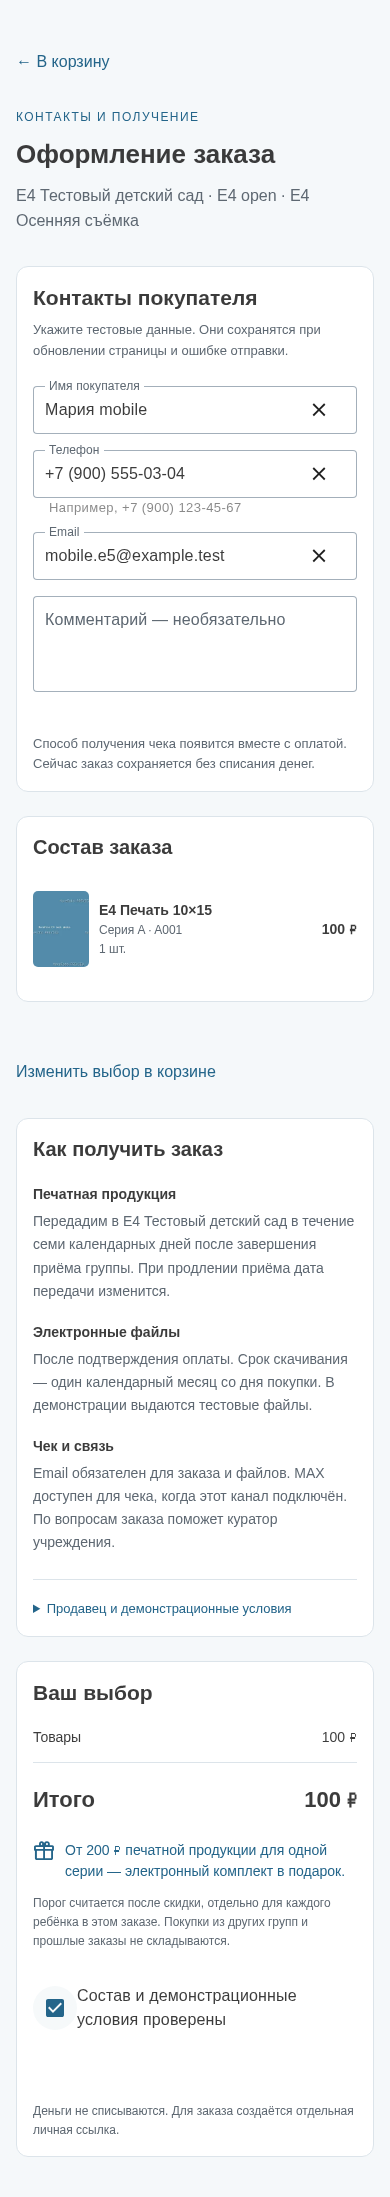
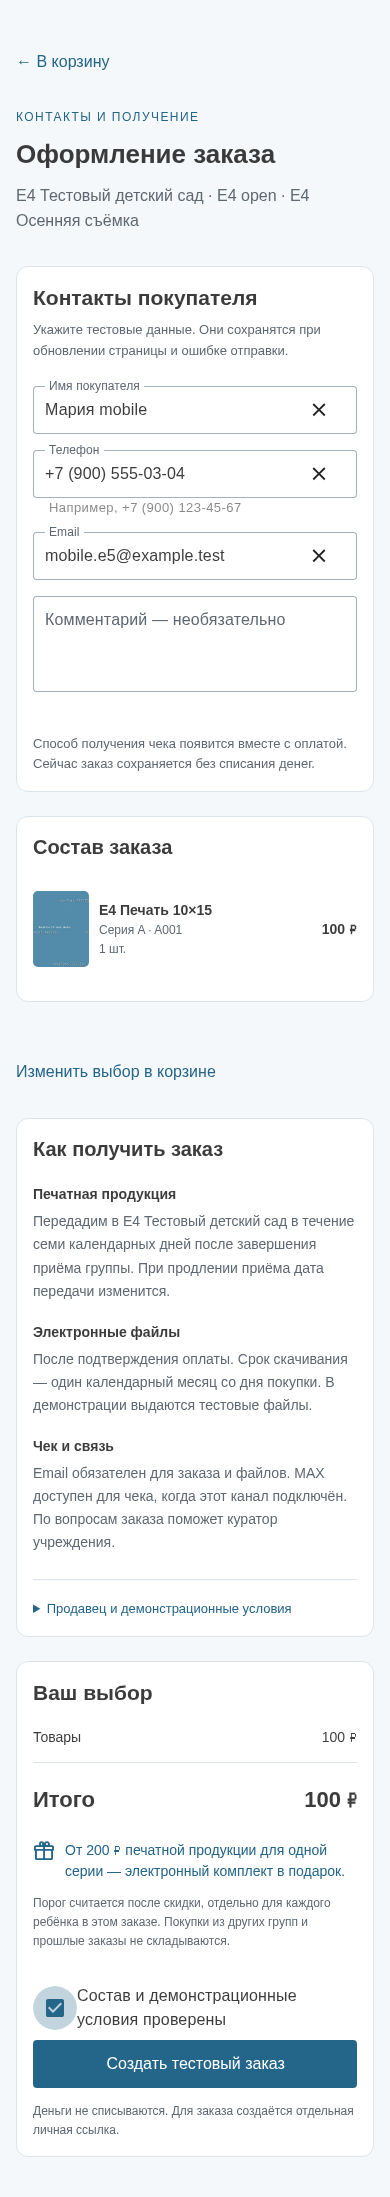
docs(e5): record passing final gate and visual check

Changed region(s): [[0.0615, 0.8976, 0.9231, 0.9595]]

diff --git a/docs/plans/E5_order-checkout/progress.md b/docs/plans/E5_order-checkout/progress.md
@@ -2,13 +2,12 @@
 
 ## Точка продолжения
 
-- 2026-09-22. Ветка `codex/e5-order-checkout`, PR [#37](https://github.com/rebit-pro/rabit-api/pull/37); base `8cba22c`, опубликованный HEAD `46c442e`, локально поверх него — документационный коммит ревью `001814f` (без push).
-- Завершено: ревью PR #37 — B1/B2 (P1), B3 (P2); #38/#39 — отдельные issues.
-- Сейчас: B1–B3 исправлены, быстрые проверки PASS; публикация исправлений и ответ на ревью, затем полный `make test-e2e`, при PASS — merge и развёртывание на app.morefoto36.ru (план — раздел «Исправления ревью…» в `plan.md`).
-- Следующий шаг: полный `make test-e2e` на HEAD с исправлениями.
-- Блокеры: нет. Открыто: процедура развёртывания app.morefoto36.ru собирается по записям прошлых релизов.
-- Рабочее дерево: чистое до начала исправлений.
-- Проверки после исправлений: PHPUnit/PHPStan/php-cs-fixer, frontend `npm run check`/`test:commerce`, затем `make test-e2e E2E_PHP_CLI_IMAGE=rabit-api-php-cli:d1-local E2E_PHP_FPM_IMAGE=rabit-api-php-fpm:d1-local E2E_KERNEL_ROOT=/home/user/rebit-p2p/api/public/bitrix E2E_VENDOR_ROOT=/home/user/rabit-api/api/vendor`.
+- 2026-09-22. Ветка `codex/e5-order-checkout`, PR [#37](https://github.com/rebit-pro/rabit-api/pull/37); проверенный HEAD `5435ebc` (исправления B1–B3), отчёты по gate — следующий docs-коммит.
+- Завершено: B1–B3, ответ на ревью, финальный `make test-e2e` PASS (70/70, оба верификатора MySQL), визуальная проверка 8 экранов, отчёты `docs/waves/e5`.
+- Решение пользователя: merge в `main` и развёртывание отложены до второго круга ревью.
+- Следующий шаг: дождаться второго ревью PR #37; merge и развёртывание на app.morefoto36.ru — только по новому указанию (процедура — ниже).
+- Блокеры: нет. Вне E5: коллизия имени D3; #38/#39 — отдельные issues.
+- Процедура развёртывания: каталог `/srv/morefoto/releases/e5-<UTC>-<sha>`; `services-before.json` пяти сервисов; `backup.sh` + `restore-check.sh` по образцу E4 (БД `morefoto_stage_c4_20260913`); `git archive <merge>:api`, `vendor` и `backend.conf` из релиза E4, точки монтирования `public/upload`, `public/bitrix`, `public/local/.settings.php`; `migrate.sh up Version20260922120001` (без подмены модуля commerce); `--mount-add` нового `/app` для fpm, backend (+`backend.conf`), consumer, dispatcher; frontend `docker build … VITE_API_MOCKS_ENABLED=false` из чистого worktree merge-коммита, `docker save | ssh … docker load`, `nginx -t`, `docker service update --image`; флаг `MOREFOTO_CHECKOUT_ENABLED` не задаётся; откат — `--mount-add` путей релиза E4 и предыдущий образ frontend.
 
 ## Хронология
 
@@ -72,32 +71,31 @@
 
 ## Результаты тест-кейсов
 
-`PASS*` — подтверждено unit и HTTP в прогоне `rabit-e2e-c14d949a108e`; повтор в финальном gate после ревью.
 
 | ID | Статус | Дата | Команда и доказательство |
 | --- | --- | --- | --- |
 | E5-BASE | PASS | 2026-09-22 | `gh pr view 30`: MERGED `7e606e5`; `git merge-base --is-ancestor` — предок HEAD `8cba22c` |
 | E5-GRAPH | PASS | 2026-09-22 | `python3 tools/verify-wave-graph.py` для обоих графов: 40 волн, 99 API, `readyFromMain=["E5"]` |
 | E5-CONTRACT | PASS | 2026-09-22 | `build.py`, `validate.py` (passed, 99 API), `validate-postman.cjs` (99/198) |
-| E5-CREATE | PASS* | 2026-09-22 | PHPUnit; HTTP в прогоне `rabit-e2e-c14d949a108e` (201, `Location`, номер, ключ, статусы, снимок). *Финальный gate — после ревью |
-| E5-REPLAY | PASS* | 2026-09-22 | HTTP повтор тем же ключом — тот же id/номер/ключ; UI потерянного ответа — повтор тем же ключом; повтор после закрытия — в `verify-orders.php` (PENDING) |
-| E5-CONCURRENCY | PASS* | 2026-09-22 | HTTP: 4 одновременных запроса с одним ключом → один заказ; 3 ключа на один quote → 201 + 2×409 `QUOTE_ALREADY_USED` |
-| E5-CONFLICT | PASS* | 2026-09-22 | PHPUnit и HTTP: другое тело с тем же ключом → 409 `IDEMPOTENCY_CONFLICT` |
-| E5-QUOTE | PASS* | 2026-09-22 | PHPUnit; HTTP `PRICE_CHANGED` с новым расчётом и UI подтверждения нового итога; `QUOTE_EXPIRED` — в `verify-orders.php` (PENDING) |
-| E5-CLOSED | PASS* | 2026-09-22 | HTTP: closed → 409 `GALLERY_CLOSED`, preparing → 409 `GALLERY_NOT_READY`, revoked → 404 |
+| E5-CREATE | PASS | 2026-09-22 | PHPUnit; `make test-e2e` `rabit-e2e-c2a30ffb9621`: 201, `Location`, номер, ключ, статусы, снимок |
+| E5-REPLAY | PASS | 2026-09-22 | HTTP повтор тем же ключом; UI потерянного ответа и 502; повтор после закрытия — `verify-orders.php` |
+| E5-CONCURRENCY | PASS | 2026-09-22 | HTTP: 4 одновременных запроса с одним ключом → один заказ; 3 ключа на один quote → 201 + 2×409 |
+| E5-CONFLICT | PASS | 2026-09-22 | PHPUnit и HTTP: другое тело с тем же ключом → 409 `IDEMPOTENCY_CONFLICT` |
+| E5-QUOTE | PASS | 2026-09-22 | PHPUnit (состав → `QUOTE_STALE`, деньги → `PRICE_CHANGED`); HTTP `PRICE_CHANGED` и UI подтверждения; `QUOTE_EXPIRED` — `verify-orders.php`; `verify-storefront.php` PASS |
+| E5-CLOSED | PASS | 2026-09-22 | HTTP: closed → 409 `GALLERY_CLOSED`, preparing → 409, revoked → 404; закрытие на MySQL — `verify-orders.php` |
 | E5-GATE | PASS | 2026-09-22 | PHPUnit (`PURCHASE_DISABLED` до любых обращений); HTTP стенда: `purchaseEnabled=true`, `receiptChannels=[]`, `purchaseTerms=null` |
-| E5-VALIDATION | PASS* | 2026-09-22 | PHPUnit `BuyerPolicy`; HTTP 422 по полям, `INVALID_IDEMPOTENCY_KEY`, `UNKNOWN_FIELD` |
-| E5-SNAPSHOT | PASS* | 2026-09-22 | HTTP: после смены цены COM-11 показывает прежние цену и итог |
-| E5-KEY | PASS* | 2026-09-22 | HTTP: проекция, `no-store`, единый 404 для пустого/чужого ключа, номера MF и токена галереи; отзыв/истечение/перевыпуск — `verify-orders.php` (PENDING) |
-| E5-STAFF-LIST | PASS* | 2026-09-22 | HTTP: организатор, свой и чужой куратор, head/teacher 403, фильтры и 422; UI поиска — после исправления локатора (PENDING) |
-| E5-STAFF-CARD | PASS* | 2026-09-22 | HTTP: `period`, `correctionPhotos` с A001, 404 для чужого куратора, 403 head/teacher |
-| E5-ACCESS-CHANGE | PENDING | — | PHPUnit адаптера PASS; проверка на MySQL в `verify-orders.php` — финальный gate |
-| E5-PRIVACY | PENDING | — | HTTP: ответы без ключей/токенов, `no-store` — PASS; сканирование БД — `verify-orders.php` (финальный gate) |
-| E5-MIGRATION | PASS* | 2026-09-22 | Установка на пустую БД в обоих прогонах, DDL дважды на MySQL 8.0; повтор `up()`/отказ `down()` — `verify-orders.php` (PENDING) |
-| E5-PERF | PENDING | — | `verify-orders.php`: 1000+ заказов, одинаковое число SQL для 10 и 100 строк — финальный gate |
+| E5-VALIDATION | PASS | 2026-09-22 | PHPUnit `BuyerPolicy`; HTTP 422 по полям, `INVALID_IDEMPOTENCY_KEY`, `UNKNOWN_FIELD` |
+| E5-SNAPSHOT | PASS | 2026-09-22 | HTTP: после смены цены COM-11 показывает прежние цену и итог |
+| E5-KEY | PASS | 2026-09-22 | HTTP: проекция, `no-store`, единый 404; `verify-orders.php`: отзыв, истечение, перевыпуск, независимость от ссылки галереи |
+| E5-STAFF-LIST | PASS | 2026-09-22 | HTTP: организатор, свой и чужой куратор, head/teacher 403, фильтры и 422; UI поиска desktop/mobile |
+| E5-STAFF-CARD | PASS | 2026-09-22 | HTTP и UI: `period`, `correctionPhotos` с A001, 404 чужому куратору, 403 head/teacher |
+| E5-ACCESS-CHANGE | PASS | 2026-09-22 | PHPUnit адаптера; `verify-orders.php`: смена `accessRevision` во время чтения → 409 `ACCESS_CHANGED` |
+| E5-PRIVACY | PASS | 2026-09-22 | HTTP без ключей/токенов, `no-store`; `verify-orders.php`: в БД нет сырых ключей, Idempotency-Key и токена галереи |
+| E5-MIGRATION | PASS | 2026-09-22 | Установка на пустую БД в gate; DDL дважды на MySQL 8.0; `verify-orders.php`: повтор `up()`, отказ `down()` |
+| E5-PERF | PASS | 2026-09-22 | `verify-orders.php`: 1011 заказов, 7 SQL для 10 и 100 строк, 7,5 мс на страницу из 100 |
 | E5-ARCH | PASS | 2026-09-22 | PHPUnit 472/1874 (включая `OrderArchitectureTest`), PHPStan No errors, php-cs-fixer по изменённым файлам |
-| E5-UI | PENDING | — | Оформление и заказ по ключу desktop/mobile — PASS в прогоне; служебные экраны — финальный gate |
-| E5-REGRESSION | PENDING | — | 67/69 в последнем прогоне; повтор полного набора — финальный gate |
+| E5-UI | PASS | 2026-09-22 | Браузер 70/70; просмотрены 8 снимков desktop/mobile (`docs/waves/e5/visual.json`) |
+| E5-REGRESSION | PASS | 2026-09-22 | Полный браузерный набор 70/70 без пропусков и нестабильных тестов |
 | E5-PUBLISH | PASS | 2026-09-22 | `git diff --check` PASS; `origin/main` = base `8cba22c`; `git push -u origin codex/e5-order-checkout`; `gh pr create` → PR #37. Merge — после ревью и финального gate |
 
 
@@ -150,3 +148,14 @@
 - B2: `useLiveCheckout.recovering` и отдельный экран «Проверим прошлую отправку» в `CheckoutForm` показываются при сохранённой неподтверждённой отправке независимо от quote, состояния группы и `purchaseEnabled`; «Повторить отправку» отправляет точное тело с прежним ключом.
 - E2E: сценарий потерянного ответа дополнен закрытием группы (подмена состояния в ответе галереи) и перезагрузкой; новый сценарий — заказ сохранён, клиент получил 502 HTML. Оба ждут экран восстановления, повтор с прежним ключом, 201 и ровно один заказ в служебном поиске.
 - Проверки: `vendor/bin/phpunit --filter StorefrontQuoteTokenTest` — 6/6; PHPStan — No errors; php-cs-fixer — 0 исправлений; полный PHPUnit — OK 474/1880; phplint — 726 файлов; frontend `npm run check` — PASS; `npm run test:commerce` — 166/166.
+
+### 2026-09-22 — подготовка развёртывания и отмена merge
+
+- Чтение сервера `ssh rebit-pro` (без изменений): сервисы `morefoto_frontend` (d3-…-3bca388, 2/2), `morefoto_stage_backend`, `morefoto_stage_fpm`, `morefoto_stage_media_consumer`, `morefoto_stage_media_dispatcher` — `/app` из релиза `e4-20260921151701-7e606e5`; у FPM нет `MOREFOTO_CHECKOUT_ENABLED` (флаг выключен); свободно 28 ГБ. Прочитаны скрипты релиза E4 (`backup.sh`, `migrate.sh`, `restore-check.sh`). `https://app.morefoto36.ru/api/v1/public/orders/current` сейчас отвечает 200 HTML (маршрута ещё нет).
+- Локально подготовлены скрипты релиза E5 (резервная копия, проверка восстановления, миграция одной версии, подготовка app, переключение/откат backend); `bash -n` — PASS. На сервер не загружались.
+- Пользователь: «мерж в майн, пока делать не надо. Мы еще один круг ревью сделаем». Merge и развёртывание отложены; финальный gate продолжает работу для следующего круга ревью.
+
+### 2026-09-22 — финальный gate PASS
+
+- `make test-e2e E2E_PHP_CLI_IMAGE=rabit-api-php-cli:d1-local E2E_PHP_FPM_IMAGE=rabit-api-php-fpm:d1-local E2E_KERNEL_ROOT=/home/user/rebit-p2p/api/public/bitrix E2E_VENDOR_ROOT=/home/user/rabit-api/api/vendor` на `5435ebc` (стенд `rabit-e2e-c2a30ffb9621`) — exit 0: phplint 726, PHPStan OK, PHPUnit 474/1880, frontend check/unit 166/build PASS, Notification H1 PASS, браузер 70 expected / 0 unexpected / 0 skipped / 0 flaky; `storefront-integration.log` — «E4 integration passed…»; `orders-integration.log` — «E5 integration passed: no raw secrets; one order per quote and receipt; key revoke, expiry, reissue and gallery independence; replay after closure, closed group and expired quote; access change during read; migration replay and protected down(); search on 1011 orders: 7 SQL for 10 and 100 rows, 7.5 ms per page of 100». Стенд остановлен, `cleanupErrors=[]`.
+- Визуальная проверка: просмотрены 8 снимков (оформление, заказ по ключу, служебные список и карточка на 1280×900 и 390×844) — PASS; сохранены в `docs/waves/e5/screenshots`, SHA-256 в `visual.json`.
